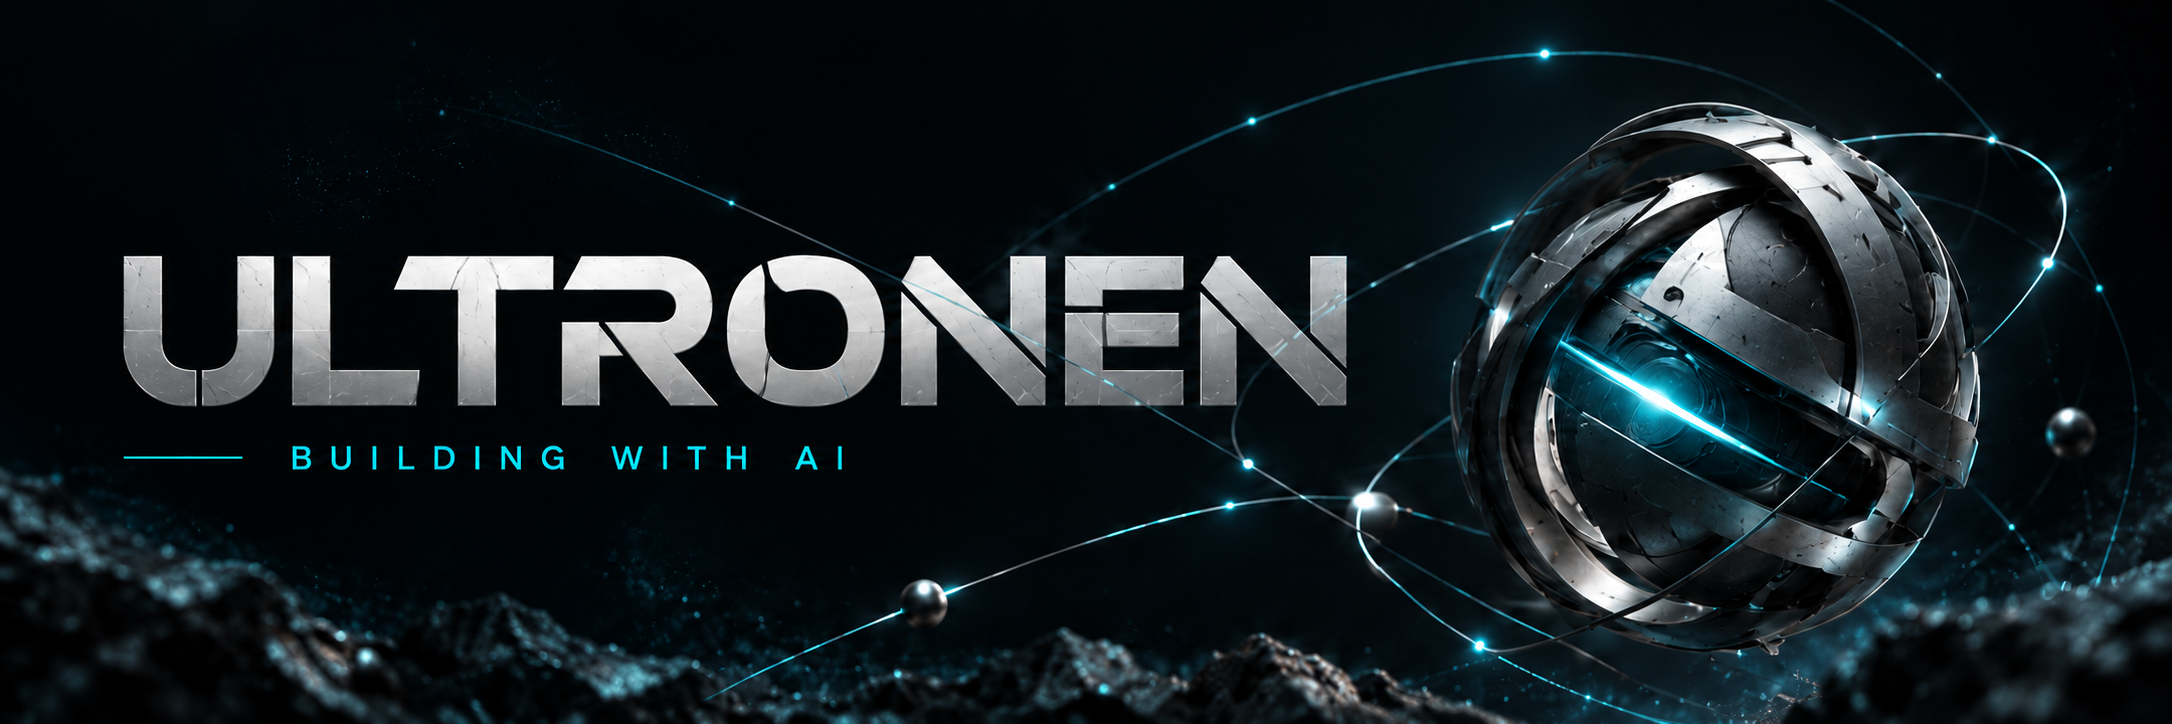
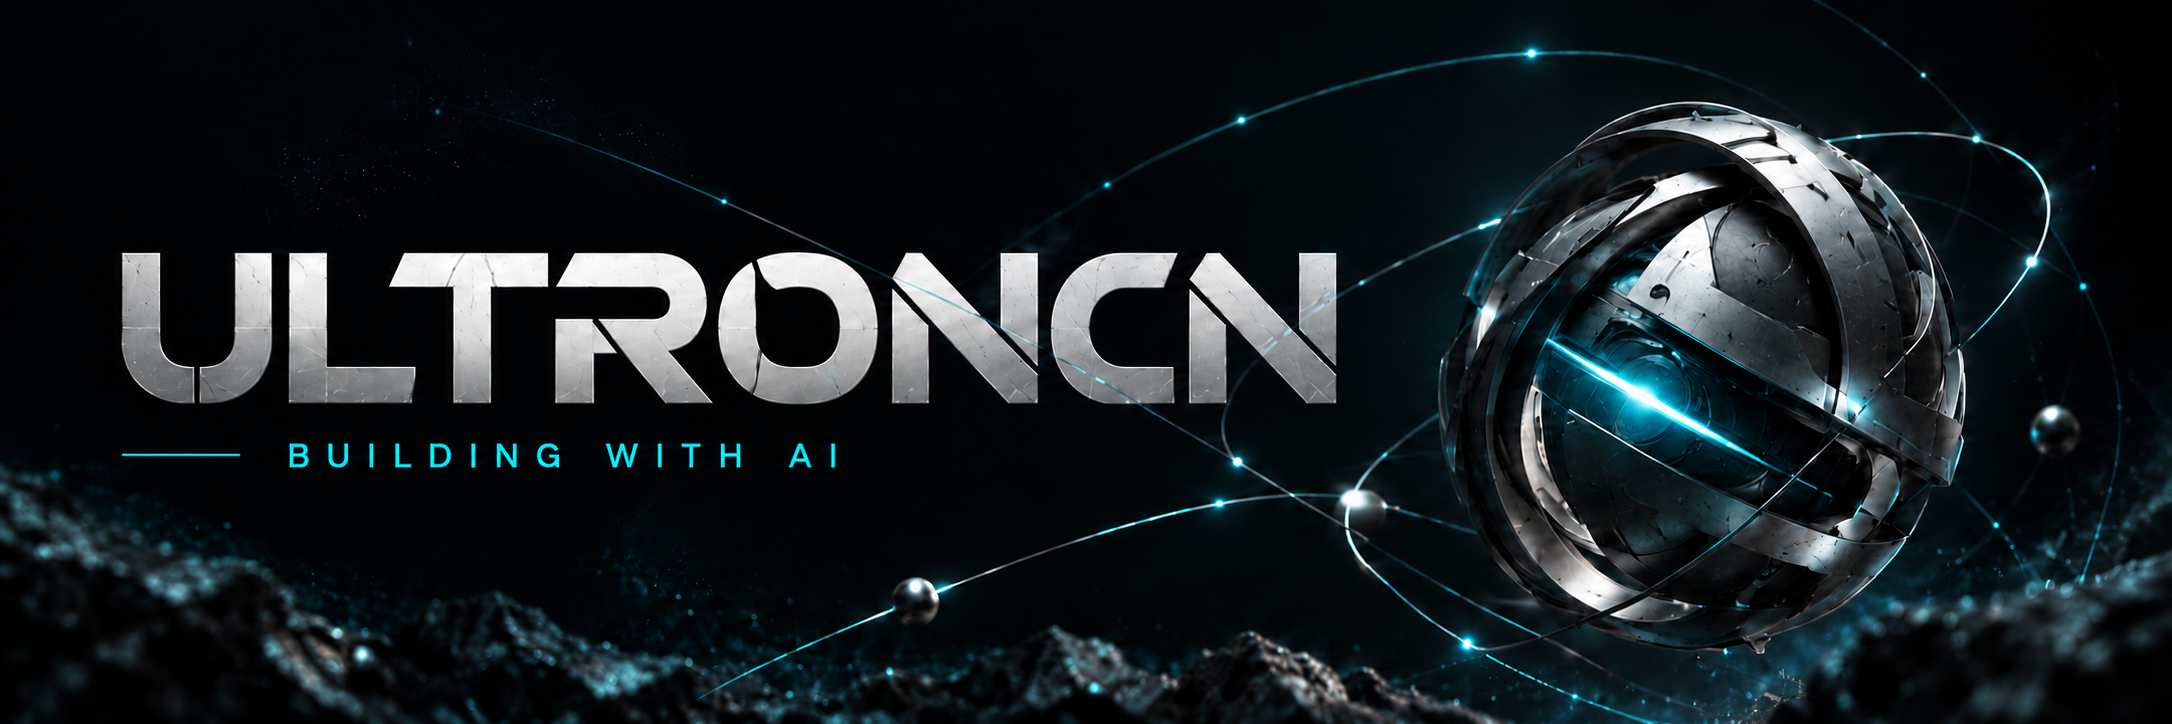
Update profile for Ultroncn account rename

diff --git a/README.md b/README.md
@@ -1,6 +1,6 @@
-![Ultronen — Building with AI](assets/banner.png)
+![Ultroncn — Building with AI](assets/banner.png)
 
-# Hi, I'm Ultronen.
+# Hi, I'm Ultroncn.
 
 I build AI applications and developer tools.<br>
 Exploring agents, RAG, and practical LLM systems.
@@ -9,7 +9,7 @@ Exploring agents, RAG, and practical LLM systems.
 
 ### Selected work
 
-**[Session Archive](https://github.com/Ultronen/dsh-archived-chats)**<br>
+**[Session Archive](https://github.com/Ultroncn/dsh-archived-chats)**<br>
 Search, organize, and back up conversations in DeepSeek Harness.
 
 ---
